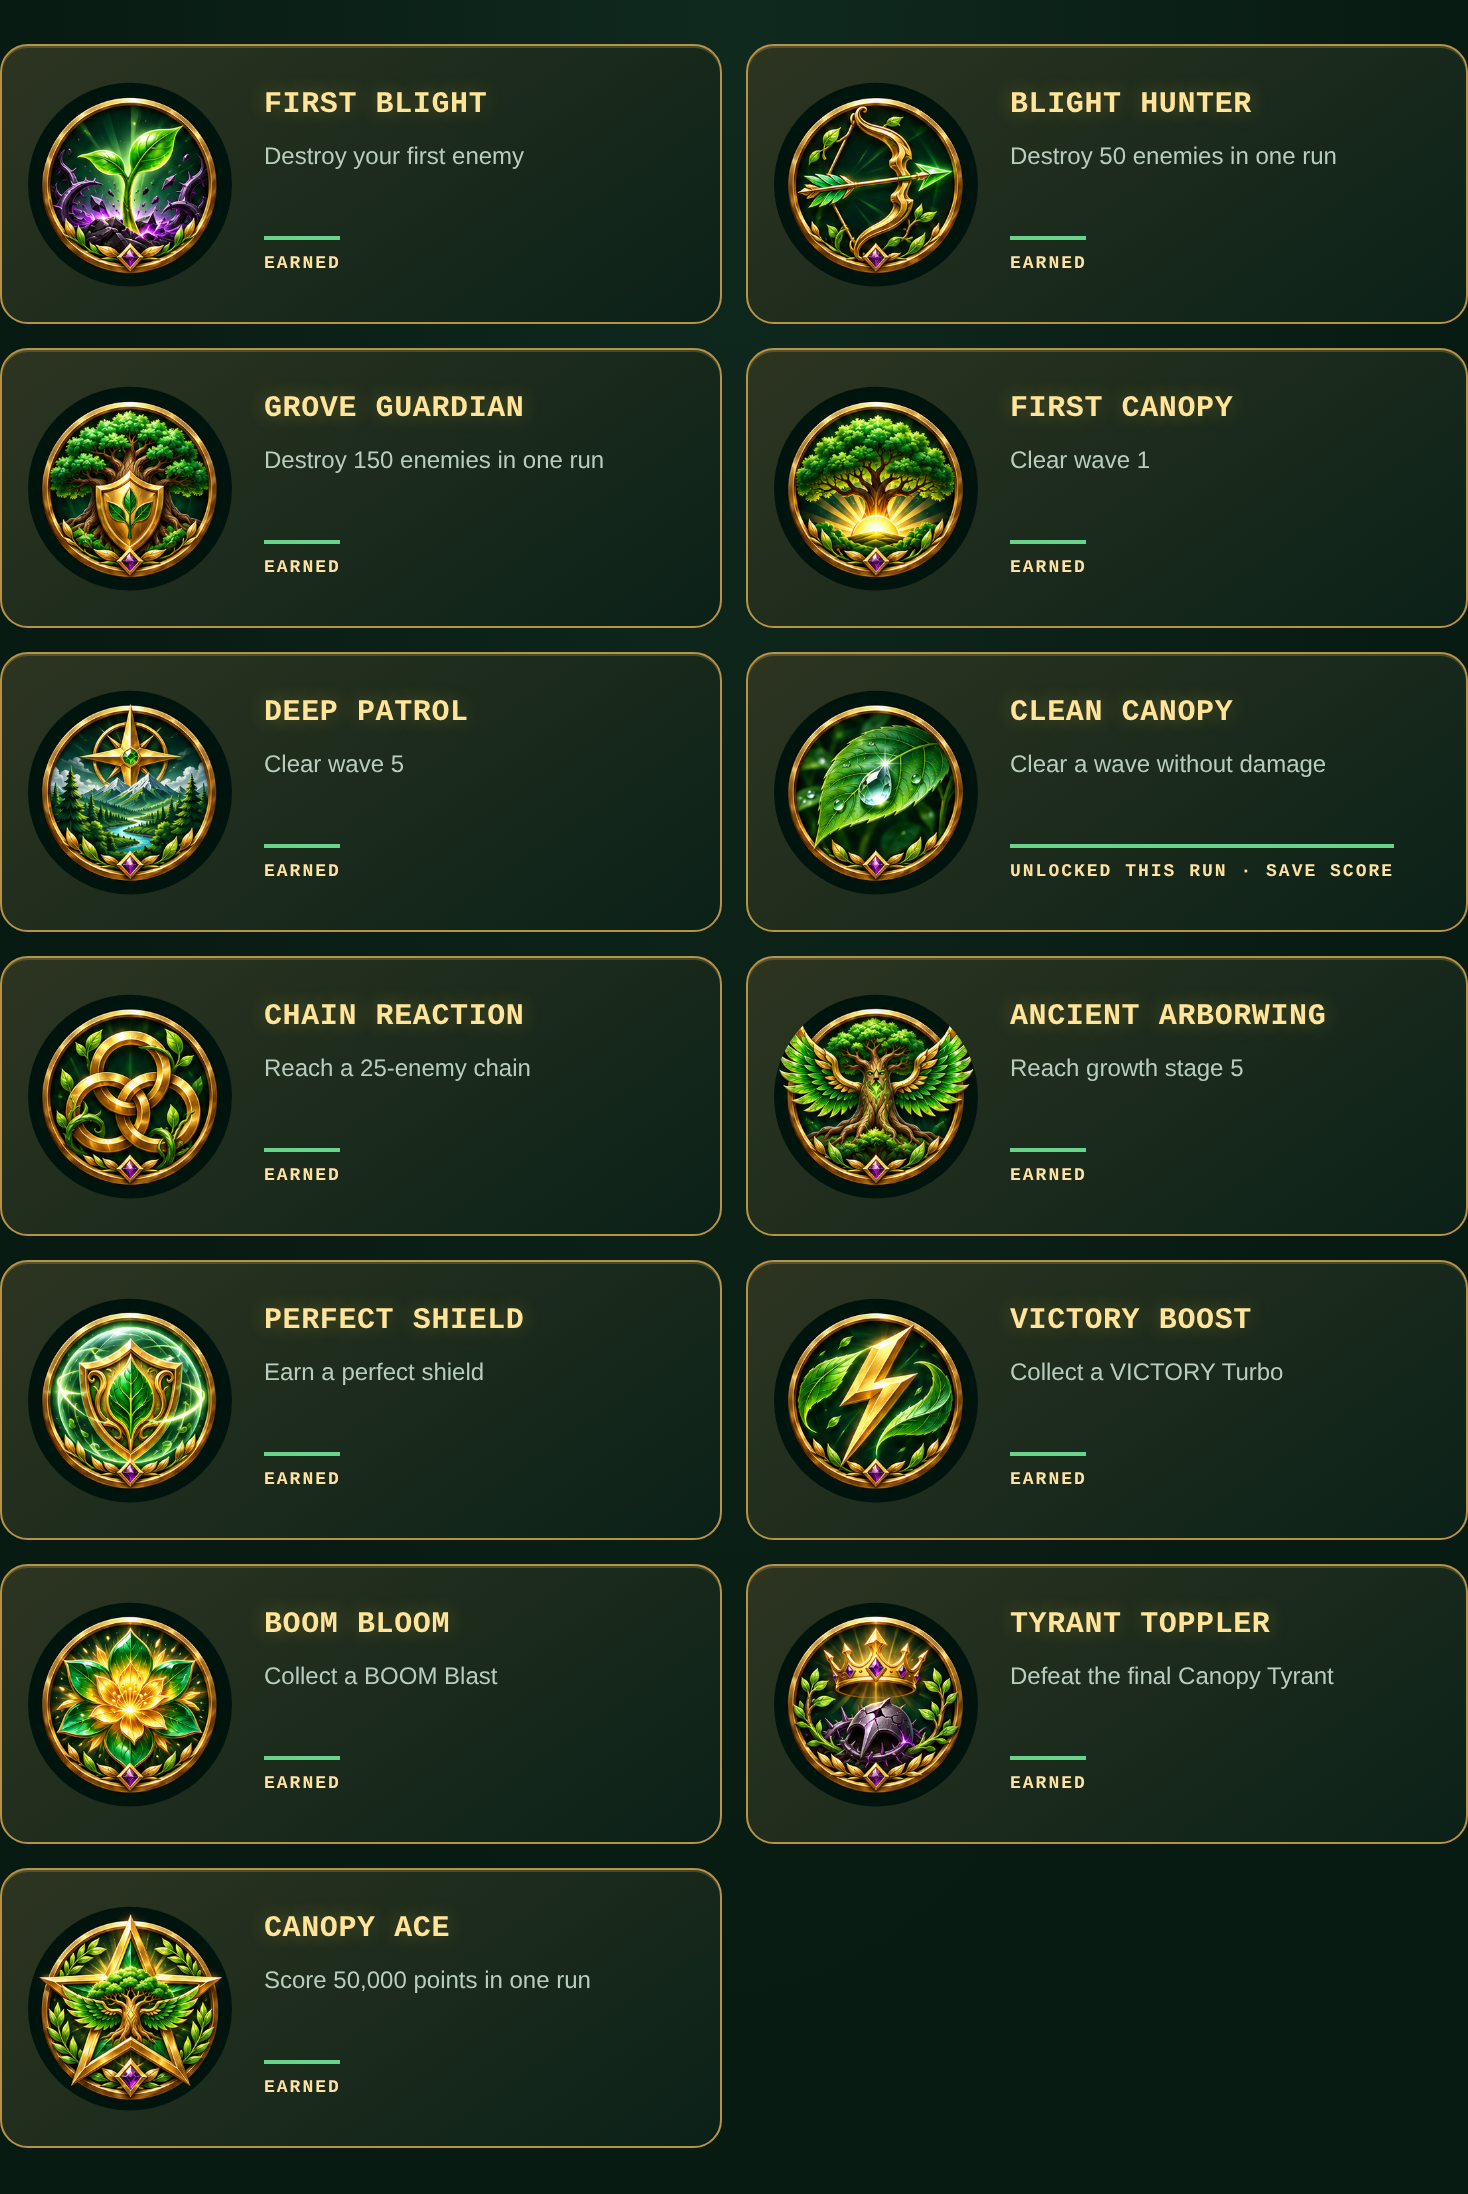
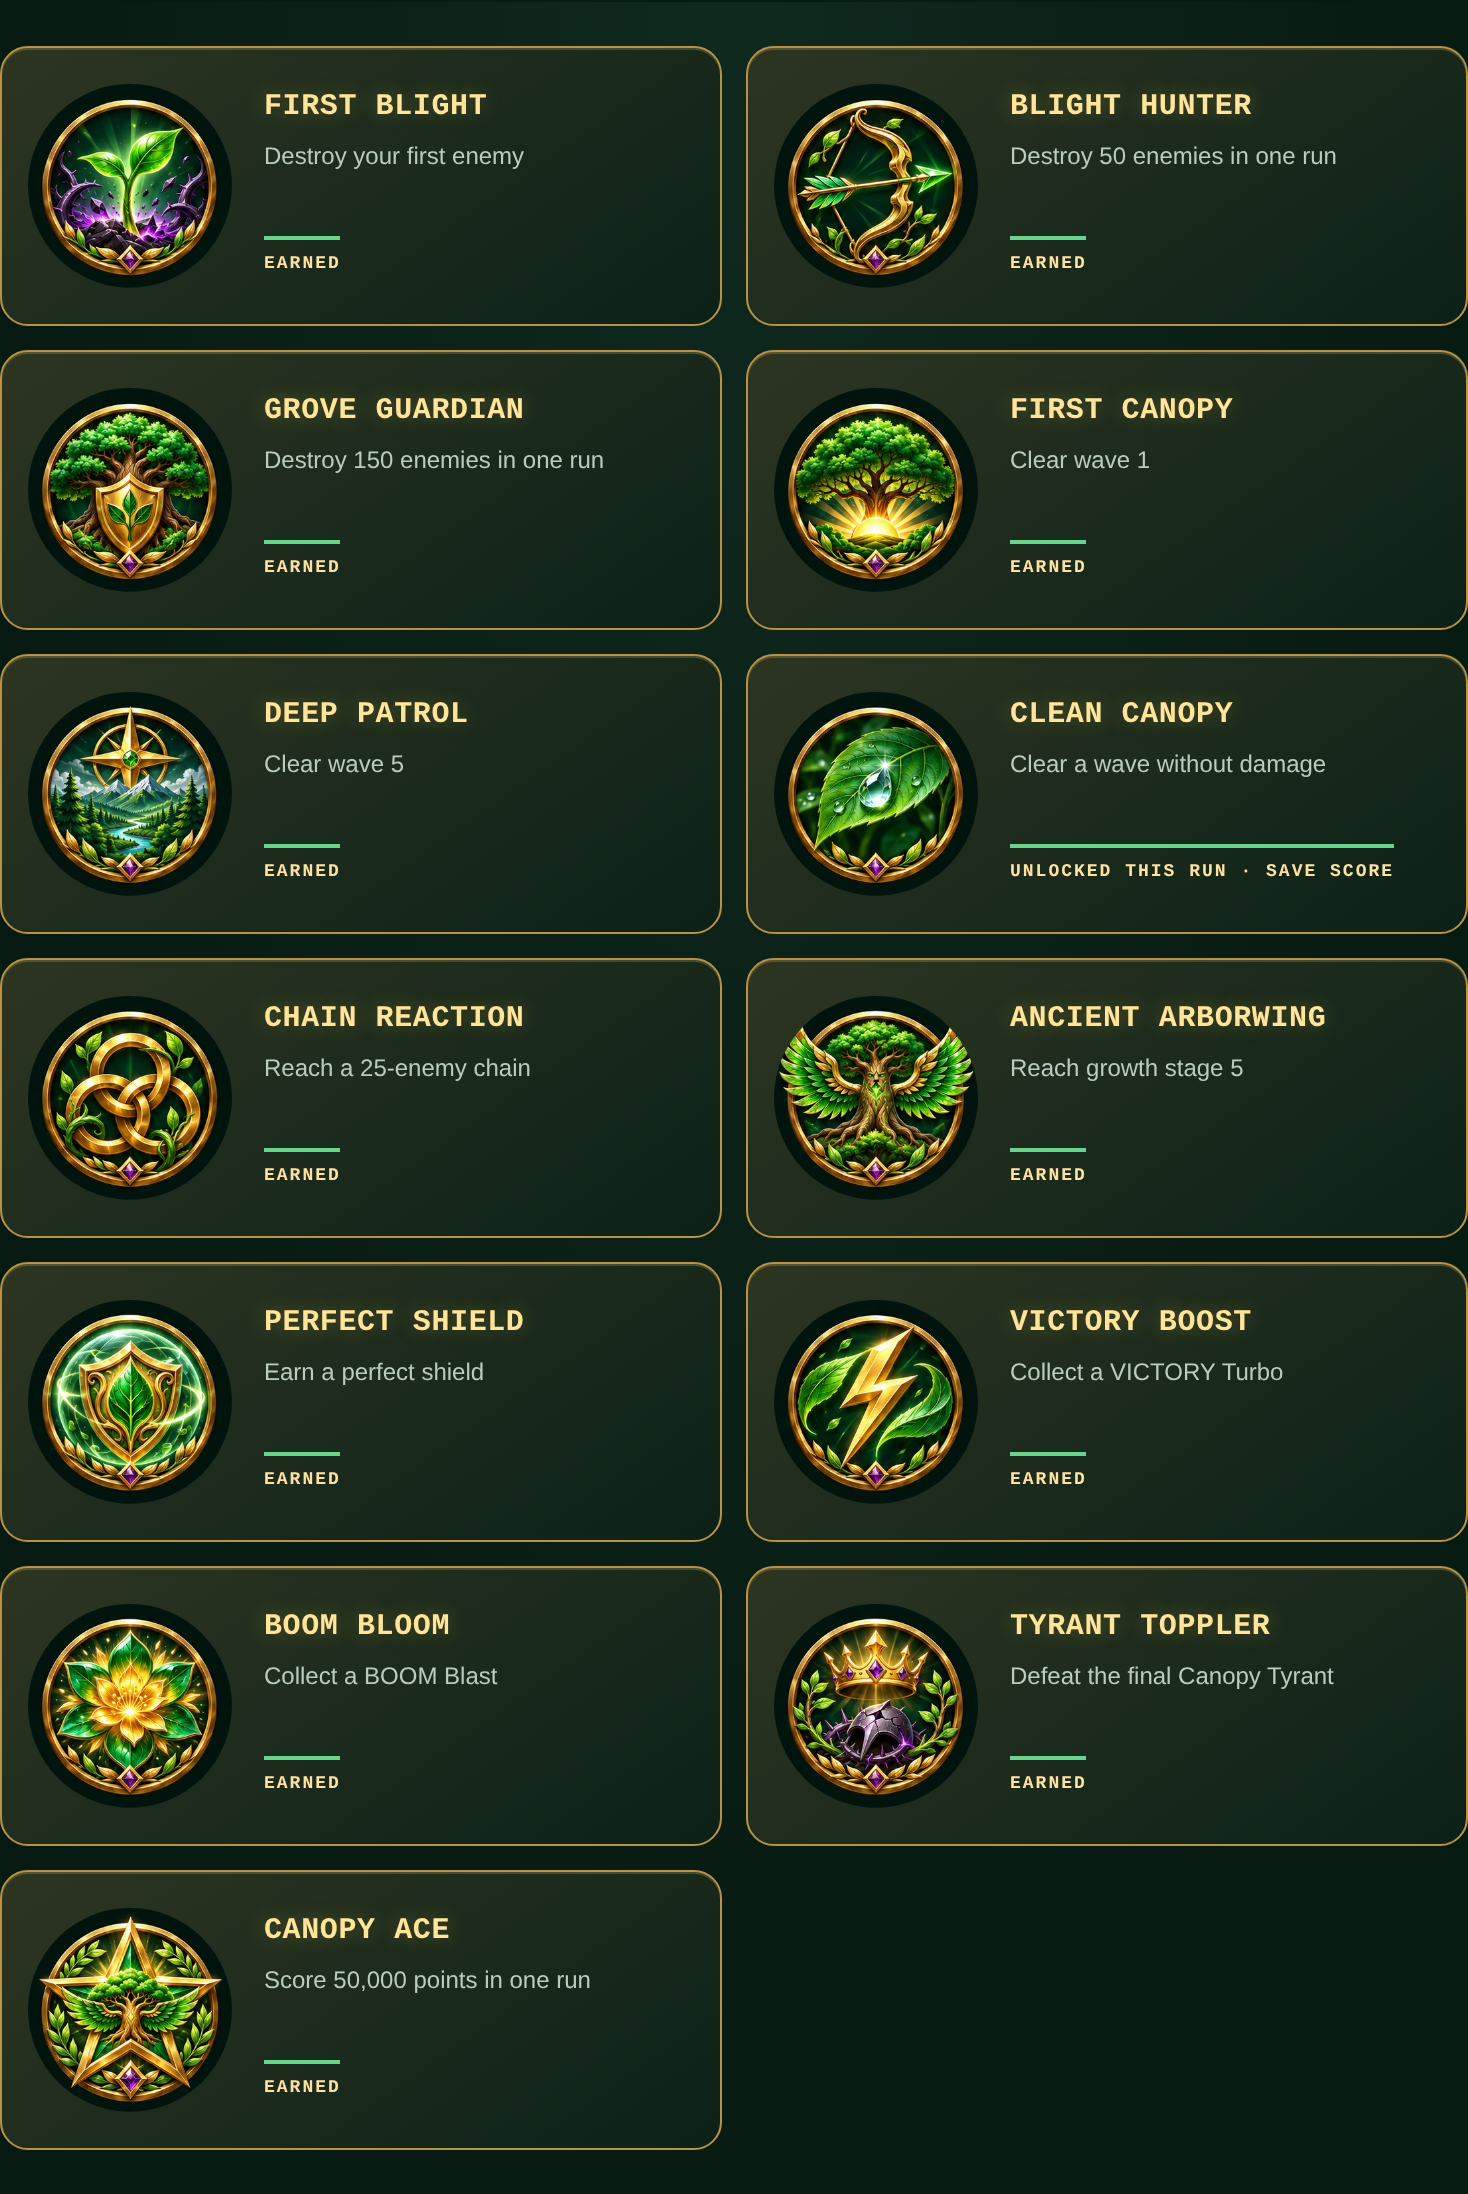
Finish forest leaderboard and enlarge desktop presentation [skip netlify]

diff --git a/styles/treeforce-pilot-cabinet.css b/styles/treeforce-pilot-cabinet.css
@@ -22,7 +22,7 @@
 .pilot-board summary:focus-visible,.pilot-board button:focus-visible{outline:3px solid #ffe7a0;outline-offset:5px}
 .pilot-board .pilot-badges{grid-template-columns:repeat(2,minmax(0,1fr));gap:12px}
 .pilot-board .pilot-badges article{min-width:0;align-items:center;gap:15px;padding:17px 12px;background:linear-gradient(145deg,#142a21,#081b15);border:1px solid #365343;border-radius:14px}
-.pilot-board .pilot-medal{display:block;flex:0 0 104px;width:104px;height:104px;align-self:center;border-radius:50%;clip-path:circle(49%);background-image:url('/assets/treeforce-achievements/canopy-medals-r19.png');background-size:400% 400%;background-color:#071b17;filter:saturate(.5) brightness(.8);image-rendering:auto}
+.pilot-board .pilot-medal{display:block;flex:0 0 104px;width:104px;height:104px;align-self:center;border-radius:50%;clip-path:circle(49%);background-image:url('/assets/treeforce-achievements/canopy-medals-r19.webp');background-size:400% 400%;background-color:#071b17;filter:saturate(.5) brightness(.8);image-rendering:auto}
 .pilot-board .earned .pilot-medal{filter:none;background-color:#071b17}
 .pilot-board .pilot-badges article.earned{border-color:#b99343;background:linear-gradient(145deg,#2d3521,#0b2118);box-shadow:inset 0 1px #e9cc7133}
 .pilot-board .pilot-badges h3{font-size:15px;color:#e8f3e6;line-height:1.3}
@@ -58,3 +58,30 @@
 }
 .pilot-board thead th:last-child{white-space:nowrap}
 @media(max-width:360px){.pilot-board thead th:last-child{font-size:8px;letter-spacing:0}}
+/* Approved forest-and-gold hall of fame. All scores and names remain HTML. */
+.pilot-board .pilot-table{position:relative;isolation:isolate;border:2px solid #a5ae69;border-radius:18px;padding:0 14px 12px;background:#032416 url('/assets/treeforce-ranks/hall-of-fame.webp') center top/100% auto no-repeat;box-shadow:inset 0 0 0 4px #275b38,inset 0 0 0 5px #a3c98150,0 12px 28px #0005}
+.pilot-board .pilot-table table{position:relative;border-spacing:0 8px}
+.pilot-board .pilot-table caption{padding:30px 6px 18px;text-align:center;background:linear-gradient(180deg,#00160c00,#001b1280);color:#fff2c4}
+.pilot-hall-title{display:grid;justify-items:center;gap:12px;text-shadow:0 2px 4px #00160d,0 0 14px #00160d}
+.pilot-hall-brand{font-size:clamp(24px,5vw,46px);font-weight:900;font-style:italic;letter-spacing:-1px;color:#fff1b2;line-height:1.1}
+.pilot-hall-kicker{display:block;border-top:1px solid #d3b55f;border-bottom:1px solid #d3b55f;padding:7px 14px;color:#fff6d6;letter-spacing:3px;font-size:11px;font-weight:700;background:#002317c7}
+.pilot-hall-title strong{font-size:clamp(24px,5vw,40px);font-weight:900;letter-spacing:1px;color:#ffdf83;line-height:1.1}
+.pilot-hall-rule{color:#e7edcf;font-size:11px;font-style:italic;letter-spacing:.5px}
+.pilot-board .pilot-table thead{background:#032b1de8}
+.pilot-board .pilot-table thead th{color:#e6edce;padding-top:12px;padding-bottom:12px;border-bottom:1px solid #9caa6d}
+.pilot-board .pilot-table tbody td,.pilot-board .pilot-table tbody th{background:linear-gradient(180deg,#04351eeb,#031e14ed);border-color:#507b47;color:#f0f0d8}
+.pilot-board .pilot-table tbody td:first-child{border-radius:11px 0 0 11px}
+.pilot-board .pilot-table tbody td:last-child{border-radius:0 11px 11px 0}
+.pilot-board .pilot-table tbody td:nth-child(3){font-weight:700;color:#f6f0cc}
+.pilot-board .pilot-table .pilot-rank-1>*{background:linear-gradient(180deg,#6b5115f2,#293719f5);border-top:2px solid #ffe38a;border-bottom:2px solid #ffe38a;box-shadow:0 -3px 7px #f0bb3825,0 3px 7px #f0bb3825;color:#fff3c5}
+.pilot-board .pilot-table .pilot-rank-1 td:first-child{border-left:2px solid #ffe38a}
+.pilot-board .pilot-table .pilot-rank-1 td:last-child{border-right:2px solid #ffe38a}
+.pilot-rank-1 .pilot-rank-title{display:inline-block;background:linear-gradient(100deg,#ffe296,#d5a642);color:#2c260c;border:1px solid #fff0b2;padding:3px 6px;border-radius:3px;text-shadow:none}
+.pilot-board .pilot-table .pilot-rank-2>*{background:linear-gradient(180deg,#29463ceF,#0b2e23f2);border-color:#b8d7c9}
+.pilot-board .pilot-table .pilot-rank-3>*{background:linear-gradient(180deg,#4e3c20ed,#182e1bf2);border-color:#d0a260}
+@media(max-width:650px){
+ .pilot-board .pilot-table{padding:0 5px 8px;background-size:auto 460px}
+ .pilot-board .pilot-table caption{padding:25px 3px 14px}
+ .pilot-hall-title{gap:10px}.pilot-hall-kicker{letter-spacing:1.5px;font-size:9px;padding:6px 8px}
+ .pilot-rank-1 .pilot-rank-title{padding:3px;letter-spacing:.3px;font-size:7px}
+}

diff --git a/styles/treeforce-desktop.css b/styles/treeforce-desktop.css
@@ -1,0 +1,10 @@
+/* Desktop presentation only. Preserve the 480×720 game world and all mobile rules. */
+@media(min-width:1000px) and (min-height:651px){
+ .site-shell{padding:8px;align-items:start}
+ .game-frame{width:min(calc(100vw - 32px),860px,calc((100svh - 130px - var(--player-status-height))*2/3));margin-inline:auto}
+ .game-header{height:30px;padding-inline:12px}
+ .game-navigation{min-height:40px;padding:3px 12px}
+ .game-controls{height:30px}
+ .game-viewport{aspect-ratio:2/3;height:auto;max-height:none}
+ .game-frame .pilot-board{margin-top:10px}
+}

diff --git a/docs/treeforce89-pilot-cabinet.md b/docs/treeforce89-pilot-cabinet.md
@@ -34,3 +34,15 @@ The overlay is **not a complete deploy package**. A later bounded release must c
 Replaced plain rank circles with original scalable SVG insignia: a gold trophy for first, ribboned silver and bronze medals for second and third, and emerald leaf shield crests for fourth through tenth. The numeric rank remains real readable text, separate from decorative background art. First place retains the largest icon and strongest row treatment. Four reusable assets total less than 6 KB; no extra JavaScript or animation loop is required.
 
 The three-width browser check now verifies all four assets load, the correct artwork is assigned to each rank, and numbers 1–10 remain present. All existing local cabinet states still pass with no page errors. The final 320px header adjustment was checked separately for overflow and screenshot readability. This refinement changes only CSS, static artwork and overlay assembly; no wallet or scoring logic changed. Not deployed.
+
+## Approved forest finish and desktop sizing — November 25
+
+The real HTML leaderboard now carries the approved forest-and-gold direction: original decorative forest backdrop, TREE FORCE ’89 masthead, gold title and framing, brighter champion row, silver/bronze podium rows, and emerald crests. Names, scores, badges and rank order remain real server-backed content; no mockup text is baked into the artwork. Local screenshots use fixture entries only.
+
+The forest background is encoded as WebP (204,934 bytes), and the original badge atlas is retained while its delivery version is WebP (395,134 bytes). Together these are 600,068 bytes, down from the original 2,422,202-byte badge PNG alone. Resolution is preserved (forest 1536×1024; medals 1254×1254). The prepare script emits an explicit hash/size manifest; only those paths belong in the future release, not stale files from older local preparations.
+
+The desktop-only stylesheet removes the old 530px cap and reduces framing overhead at widths of 1000px and above. It keeps the original 2:3 playfield and 480×720 internal canvas. At 1280×720, 1440×900, 1920×1080 and 2560×1440, measured canvas widths increased 12%, 9%, 20% and 63% respectively. The title/gateway canvas remained fully within the viewport. The 390×844 phone comparison was byte-for-byte equal in the measured geometry. Desktop screenshots are actual rendered app screenshots, not concept images. The existing authenticated gameplay/wallet fixture also passed all ten regressions at 1440px, without page errors.
+
+Files: `styles/treeforce-desktop.css`, `tests/treeforce-desktop-browser.cjs`. Evidence: `desktop-checks.json`, `desktop-1440.png`, `desktop-1920.png`, `wallet-regressions-desktop.json`, and `overlay-manifest.json` alongside the cabinet evidence. Physical monitors/phones and slow-network timing are not measured by these browser checks.
+
+Release status: local implementation and explicit frontend overlay prepared; no production deployment has been made. Next release operation must capture and compare the current live baseline and merge only the manifest-listed changes through the existing full-inventory preservation workflow. The historical deploy ID recorded above is not permission to overwrite newer Arcade/multichain work.
